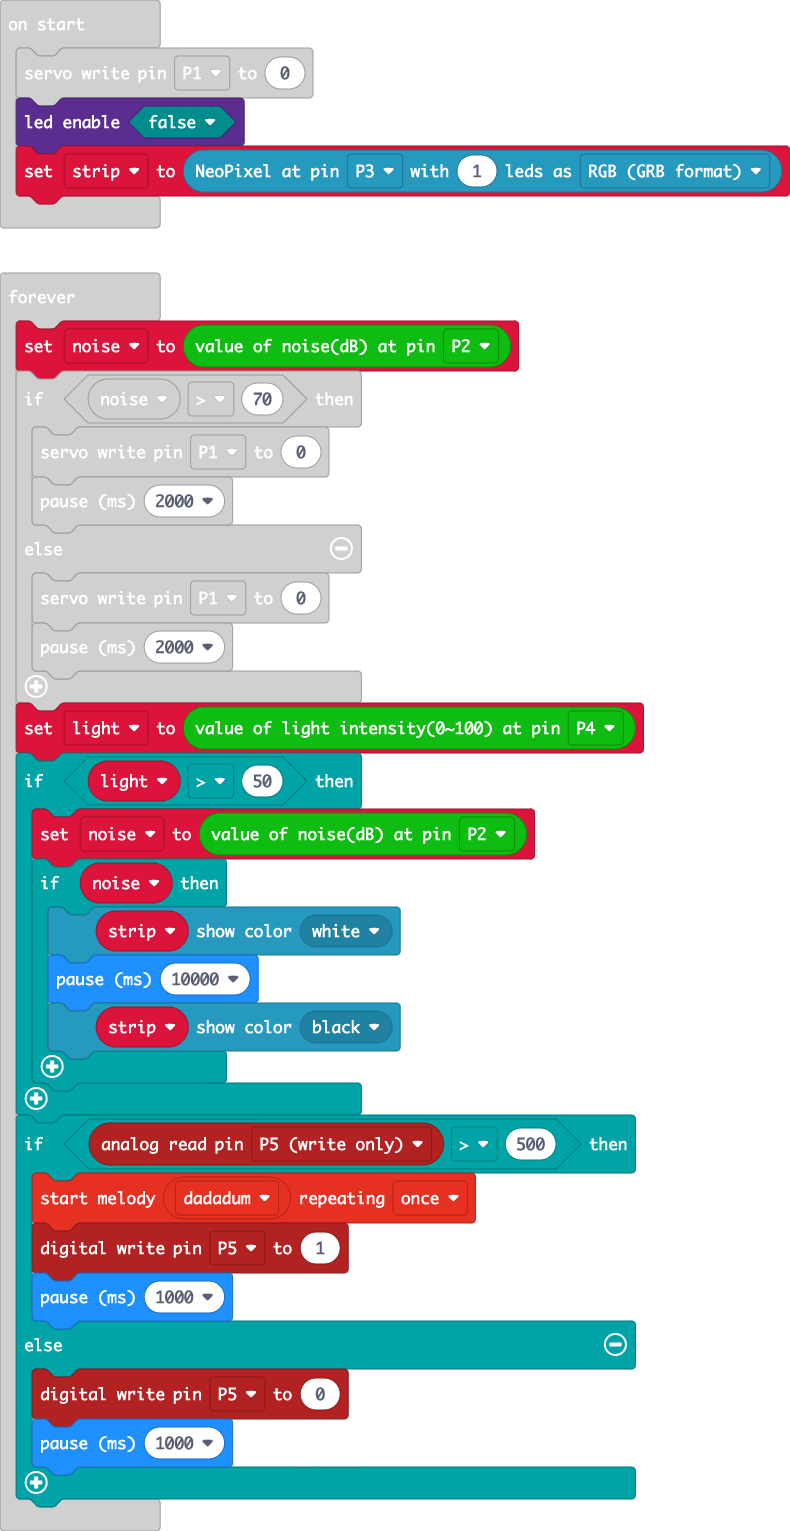
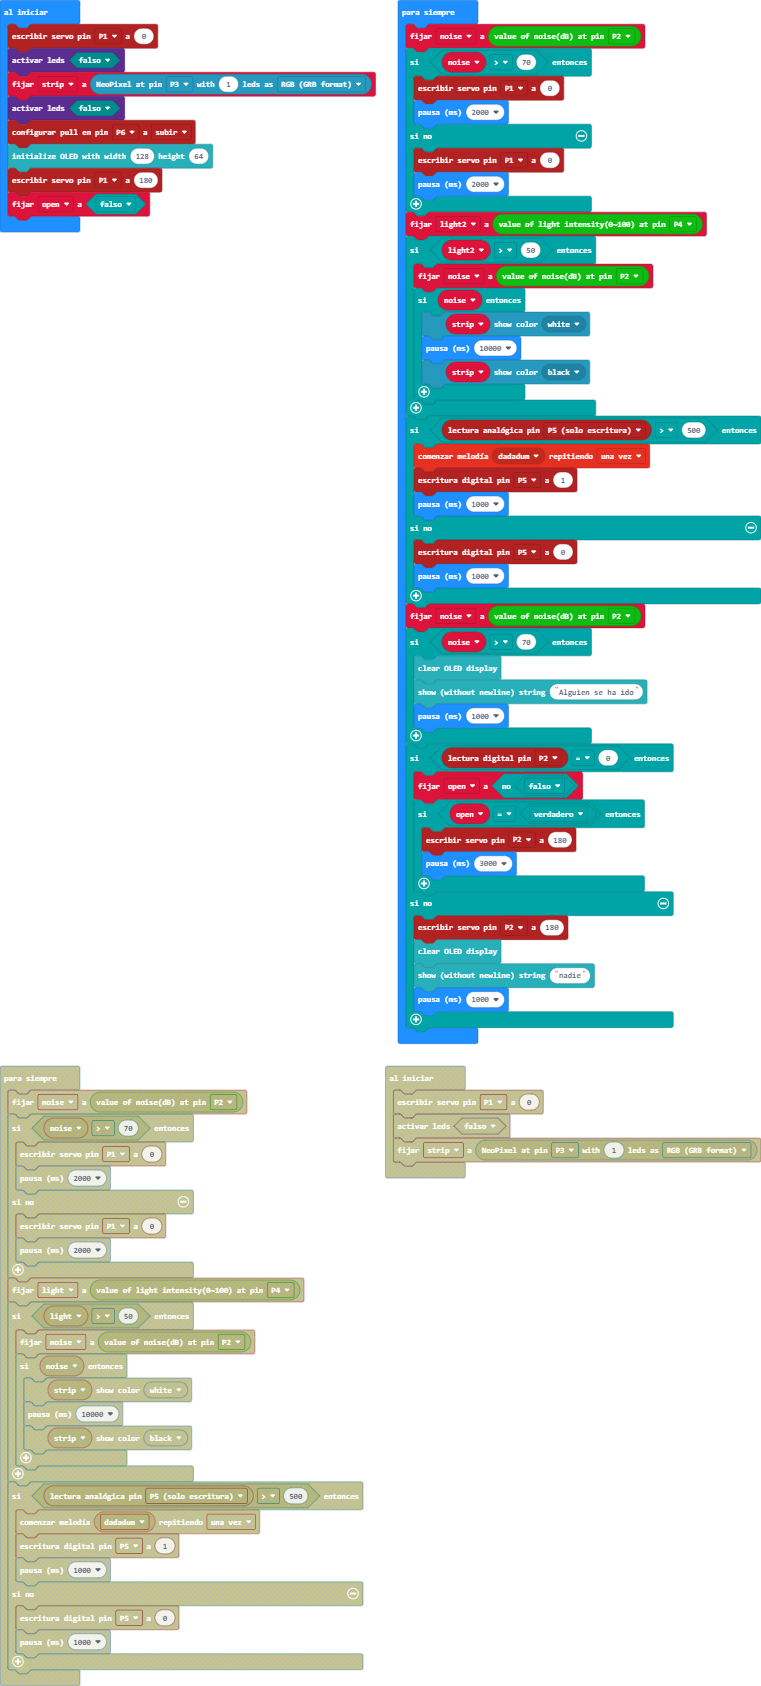
si

diff --git a/main.ts b/main.ts
@@ -3,7 +3,13 @@ let noise = 0
 pins.servoWritePin(AnalogPin.P1, 0)
 led.enable(false)
 let strip = neopixel.create(DigitalPin.P3, 1, NeoPixelMode.RGB)
-basic.forever(function () {
+led.enable(false)
+pins.setPull(DigitalPin.P6, PinPullMode.PullUp)
+OLED.init(128, 64)
+pins.servoWritePin(AnalogPin.P1, 180)
+let open2 = false
+basic.forever(function on_forever() {
+    
     noise = smarthome.ReadNoise(AnalogPin.P2)
     if (noise > 70) {
         pins.servoWritePin(AnalogPin.P1, 0)
@@ -12,6 +18,7 @@ basic.forever(function () {
         pins.servoWritePin(AnalogPin.P1, 0)
         basic.pause(2000)
     }
+    
     light2 = smarthome.ReadLightIntensity(AnalogPin.P4)
     if (light2 > 50) {
         noise = smarthome.ReadNoise(AnalogPin.P2)
@@ -20,7 +27,9 @@ basic.forever(function () {
             basic.pause(10000)
             strip.showColor(neopixel.colors(NeoPixelColors.Black))
         }
+        
     }
+    
     if (pins.analogReadPin(AnalogPin.P5) > 500) {
         music.startMelody(music.builtInMelody(Melodies.Dadadadum), MelodyOptions.Once)
         pins.digitalWritePin(DigitalPin.P5, 1)
@@ -29,4 +38,26 @@ basic.forever(function () {
         pins.digitalWritePin(DigitalPin.P5, 0)
         basic.pause(1000)
     }
+    
+    noise = smarthome.ReadNoise(AnalogPin.P2)
+    if (noise > 70) {
+        OLED.clear()
+        OLED.writeString("Alguien se ha ido")
+        basic.pause(1000)
+    }
+    
+    if (pins.digitalReadPin(DigitalPin.P2) == 0) {
+        open2 = !false
+        if (open2 == true) {
+            pins.servoWritePin(AnalogPin.P2, 180)
+            basic.pause(3000)
+        }
+        
+    } else {
+        pins.servoWritePin(AnalogPin.P2, 180)
+        OLED.clear()
+        OLED.writeString("nadie")
+        basic.pause(1000)
+    }
+    
 })

diff --git a/main.py b/main.py
@@ -1,0 +1,51 @@
+light2 = 0
+noise = 0
+pins.servo_write_pin(AnalogPin.P1, 0)
+led.enable(False)
+strip = neopixel.create(DigitalPin.P3, 1, NeoPixelMode.RGB)
+led.enable(False)
+pins.set_pull(DigitalPin.P6, PinPullMode.PULL_UP)
+OLED.init(128, 64)
+pins.servo_write_pin(AnalogPin.P1, 180)
+open2 = False
+
+def on_forever():
+    global noise, light2, open2
+    noise = smarthome.read_noise(AnalogPin.P2)
+    if noise > 70:
+        pins.servo_write_pin(AnalogPin.P1, 0)
+        basic.pause(2000)
+    else:
+        pins.servo_write_pin(AnalogPin.P1, 0)
+        basic.pause(2000)
+    light2 = smarthome.read_light_intensity(AnalogPin.P4)
+    if light2 > 50:
+        noise = smarthome.read_noise(AnalogPin.P2)
+        if noise:
+            strip.show_color(neopixel.colors(NeoPixelColors.WHITE))
+            basic.pause(10000)
+            strip.show_color(neopixel.colors(NeoPixelColors.BLACK))
+    if pins.analog_read_pin(AnalogPin.P5) > 500:
+        music.start_melody(music.built_in_melody(Melodies.DADADADUM),
+            MelodyOptions.ONCE)
+        pins.digital_write_pin(DigitalPin.P5, 1)
+        basic.pause(1000)
+    else:
+        pins.digital_write_pin(DigitalPin.P5, 0)
+        basic.pause(1000)
+    noise = smarthome.read_noise(AnalogPin.P2)
+    if noise > 70:
+        OLED.clear()
+        OLED.write_string("Alguien se ha ido")
+        basic.pause(1000)
+    if pins.digital_read_pin(DigitalPin.P2) == 0:
+        open2 = not (False)
+        if open2 == True:
+            pins.servo_write_pin(AnalogPin.P2, 180)
+            basic.pause(3000)
+    else:
+        pins.servo_write_pin(AnalogPin.P2, 180)
+        OLED.clear()
+        OLED.write_string("nadie")
+        basic.pause(1000)
+basic.forever(on_forever)
